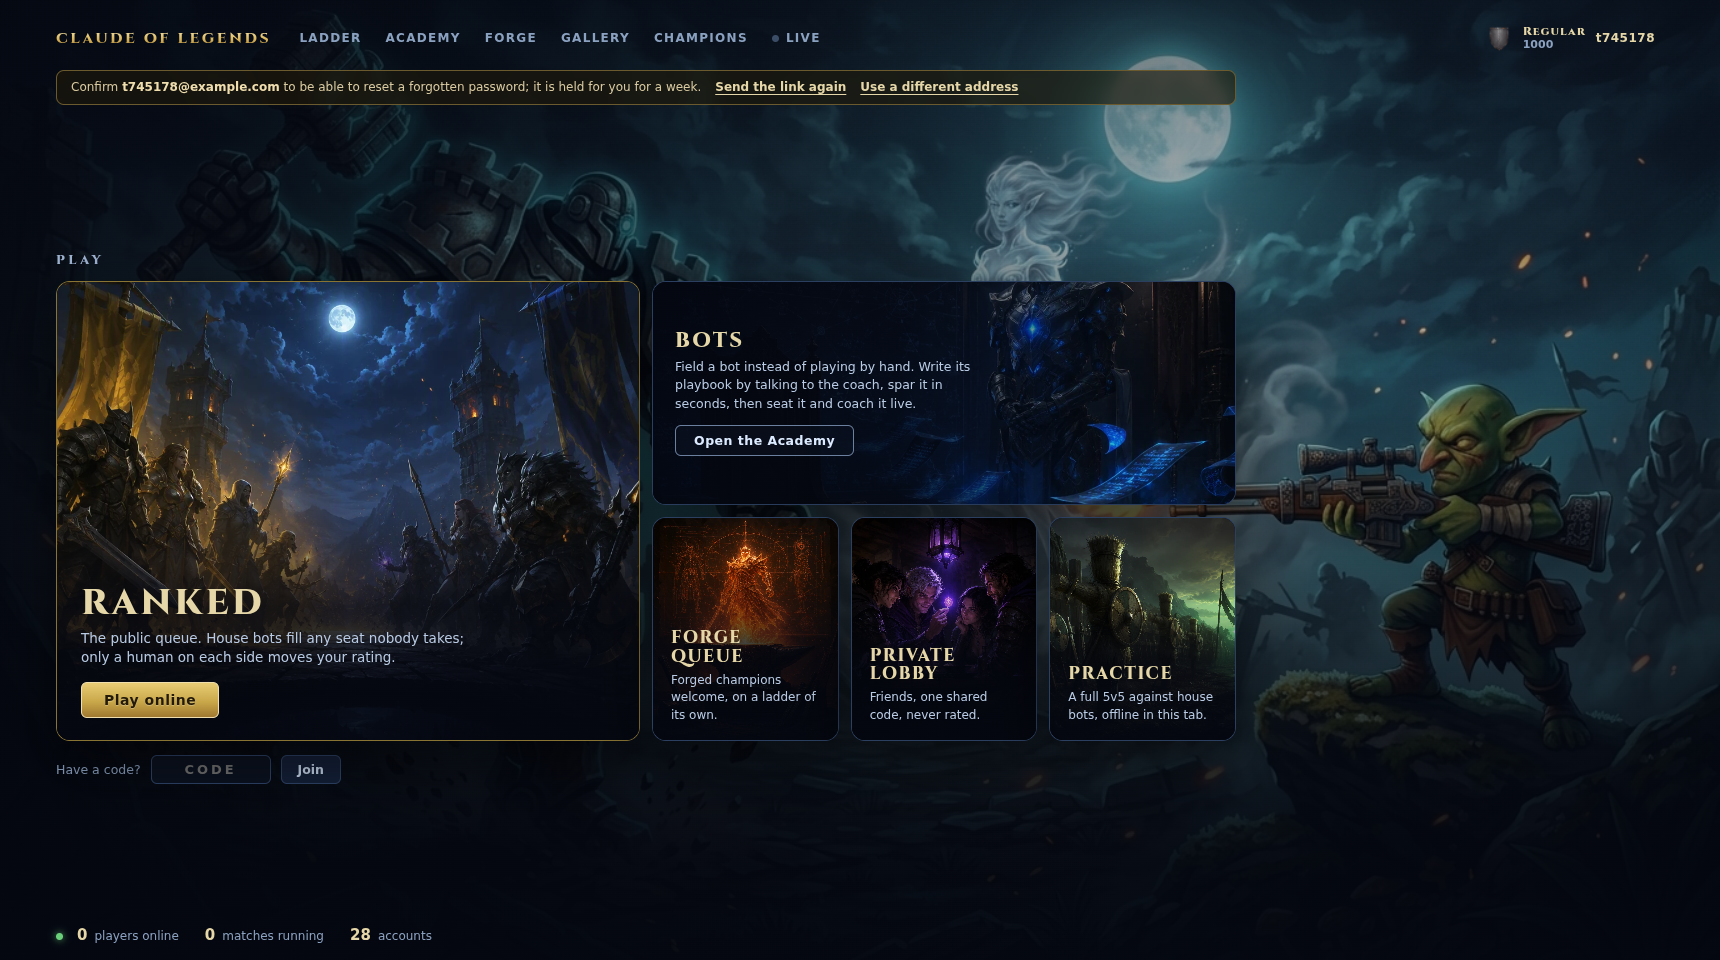
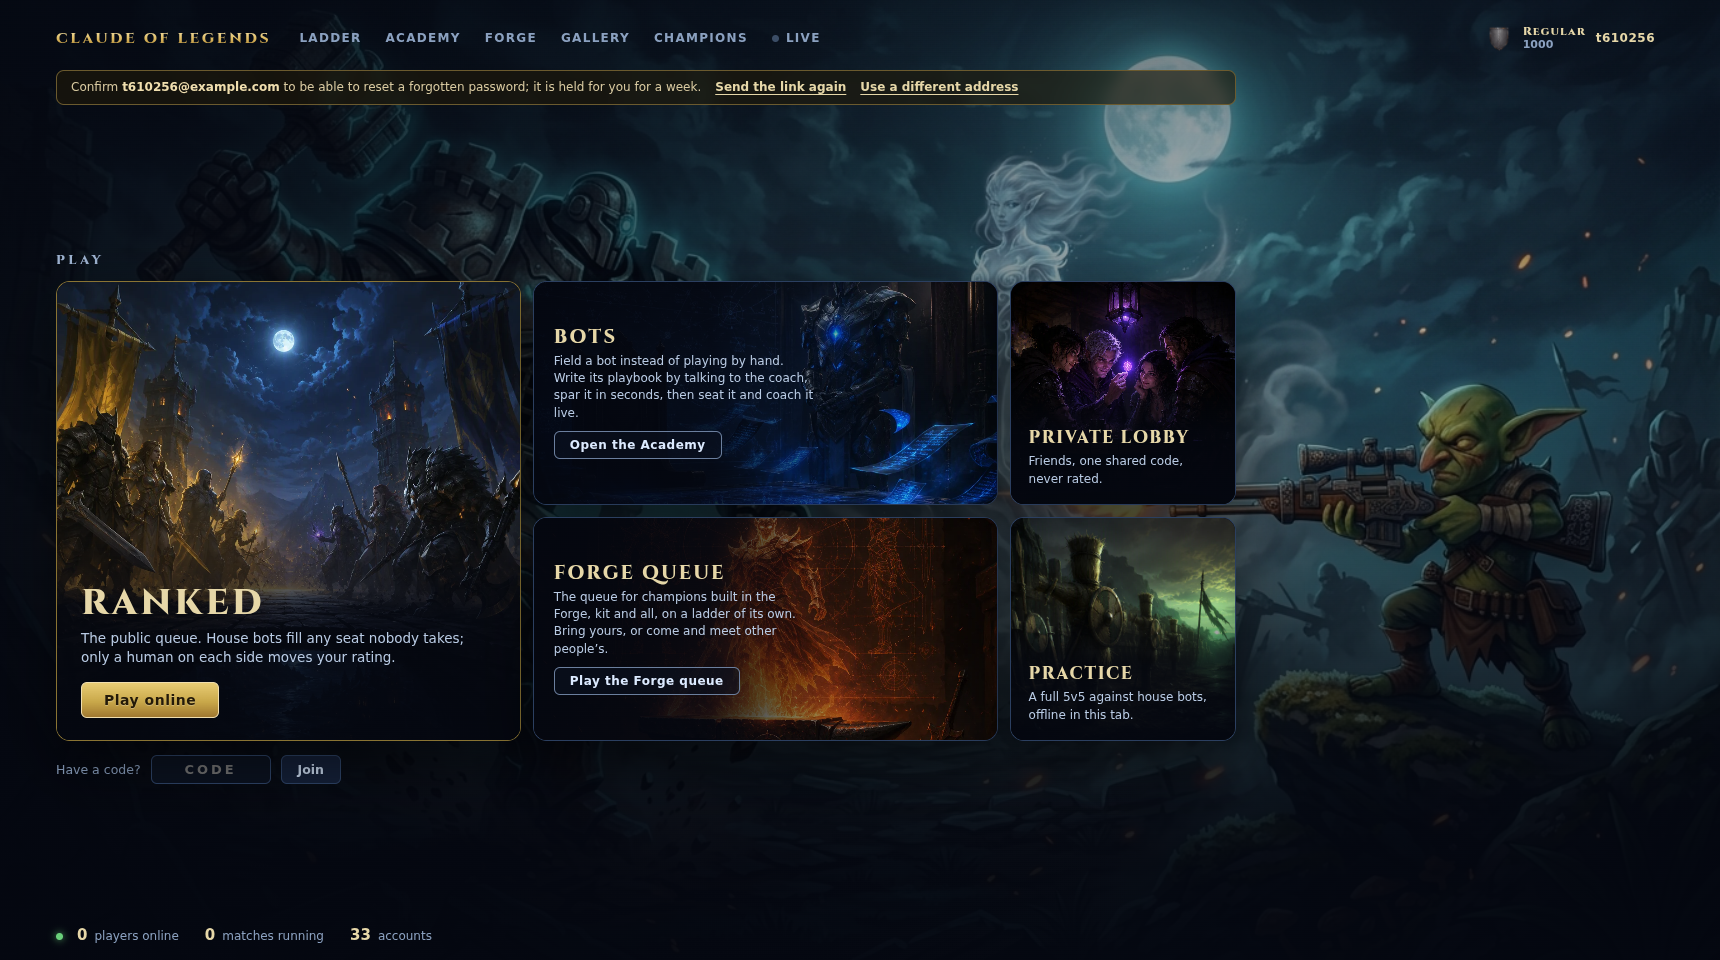
feat(ui): the Forge queue gets the same billing as Bots
The Forge tile was one of the three small squares, which reads as an
afterthought next to the Bots banner. It is the other mode nothing else
in the genre has, so it gets the same shape: the row is now the Ranked
scene tall on the left, the two banners stacked in the middle, and the
Private lobby and Practice squares in a column on the right. The Forge
banner carries its own call to action and says what the queue is for.

Banner is a flag on the tile rather than a rule keyed to one id, so the
scrim, the type sizes and the pill are shared; only the Bots mirror and
the Forge crop stay tile-specific, because those belong to the paintings.

Claude-Session: https://claude.ai/code/session_01VY743MMzWfgfbTnFUAK15o

Changed region(s): [[0.0308, 0.2812, 0.7395, 0.7812], [0.9244, 0.0312, 0.9552, 0.0625], [0.0616, 0.0625, 0.0924, 0.0938]]

diff --git a/src/ui/play_tiles.ts b/src/ui/play_tiles.ts
@@ -8,17 +8,19 @@ import type { PlayTile } from './home_tiles';
 import { tileArtUrl } from './home_tiles';
 import { el } from './menu';
 
-// The bento: the Ranked scene tall on the left, the Bots banner across the
-// top right, the three others square beneath it. Six columns rather than
-// five so the banner and the squares divide the same right-hand half.
+// The bento: the Ranked scene tall on the left, the two banners stacked in
+// the middle, the two smaller modes in a column on the right. Ten columns
+// so four, four and two divide the row cleanly; Bots and the Forge queue
+// get the same billing because they are the two modes nothing else in the
+// genre has, and a mode you have to be shown is a mode worth the space.
 const CSS = `
-.tiles { display: grid; grid-template-columns: repeat(6, 1fr); grid-template-rows: 1fr 1fr;
+.tiles { display: grid; grid-template-columns: repeat(10, 1fr); grid-template-rows: 1fr 1fr;
   gap: 12px; height: clamp(320px, 50vh, 460px); max-width: 1180px; }
-.tile.t-ranked { grid-area: 1 / 1 / 3 / 4; }
-.tile.t-bots { grid-area: 1 / 4 / 2 / 7; }
-.tile.t-forge { grid-area: 2 / 4 / 3 / 5; }
-.tile.t-lobby { grid-area: 2 / 5 / 3 / 6; }
-.tile.t-practice { grid-area: 2 / 6 / 3 / 7; }
+.tile.t-ranked { grid-area: 1 / 1 / 3 / 5; }
+.tile.t-bots { grid-area: 1 / 5 / 2 / 9; }
+.tile.t-forge { grid-area: 2 / 5 / 3 / 9; }
+.tile.t-lobby { grid-area: 1 / 9 / 2 / 11; }
+.tile.t-practice { grid-area: 2 / 9 / 3 / 11; }
 .tile {
   position: relative; overflow: hidden; border-radius: 14px; border: 1px solid #2b3f60;
   padding: 0; text-align: left; cursor: pointer; color: inherit; font: inherit;
@@ -49,21 +51,25 @@ const CSS = `
 .tile.hero .tile-body { padding: 90px 24px 22px; }
 .tile.hero h3 { font-size: clamp(26px, 2.6vw, 36px); letter-spacing: 3px; }
 .tile.hero p { font-size: 13.5px; }
-/* The banner reads across, not up: its words sit in a column against a
-   scrim that fades to the right, where the construct stands. The painting
-   is mirrored to put it there, away from the text; the scene is a room,
-   so nothing in it has a handedness to lose. */
+/* A banner reads across, not up: its words sit in a column against a scrim
+   that fades to the right, where the painting is left clear. */
+.tile.banner .tile-body {
+  top: 0; display: flex; flex-direction: column; justify-content: center;
+  padding: 14px 20px;
+  background: linear-gradient(90deg, rgba(4, 7, 16, 0.96) 0%, rgba(4, 7, 16, 0.88) 38%,
+    rgba(4, 7, 16, 0.1) 78%);
+}
+.tile.banner h3 { font-size: 19px; letter-spacing: 2.2px; }
+.tile.banner p { font-size: 12px; max-width: 34ch; }
+.tile.banner .tile-cta { align-self: flex-start; margin-top: 9px; padding: 6px 15px;
+  font-size: 12px; }
+/* The Bots painting is mirrored so its construct stands on the right, away
+   from the words; the scene is a room, so it has no handedness to lose.
+   The Forge painting is already lit dead center, which is where its scrim
+   thins out, so it needs nothing. */
 .tile.t-bots .tile-art img { transform: scaleX(-1); }
 .tile.t-bots:hover .tile-art img { transform: scaleX(-1) scale(1.05); }
-.tile.t-bots .tile-body {
-  top: 0; display: flex; flex-direction: column; justify-content: center;
-  padding: 16px 22px;
-  background: linear-gradient(90deg, rgba(4, 7, 16, 0.96) 0%, rgba(4, 7, 16, 0.88) 42%,
-    rgba(4, 7, 16, 0.12) 82%);
-}
-.tile.t-bots h3 { font-size: 21px; letter-spacing: 2.2px; }
-.tile.t-bots p { font-size: 12.5px; max-width: 40ch; }
-.tile.t-bots .tile-cta { align-self: flex-start; }
+.tile.t-forge .tile-art img { object-position: 50% 26%; }
 .tile-cta {
   display: inline-block; margin-top: 12px; padding: 7px 18px; border-radius: 6px;
   border: 1px solid #6b7f9e; color: #dceaff; font-weight: 700; font-size: 12.5px;
@@ -89,20 +95,21 @@ const CSS = `
 /* Narrow: the bento unstacks into the hero, the banner, and a row of
    three, which is the same reading order one column at a time. */
 @media (max-width: 900px) {
-  .tiles { grid-template-columns: repeat(3, 1fr); grid-template-rows: auto; height: auto; gap: 10px; }
-  .tile.t-ranked { grid-area: auto / 1 / auto / 4; aspect-ratio: 16 / 9; }
-  /* Two to one, not three: the banner has to hold its title, its line and
+  .tiles { grid-template-columns: repeat(2, 1fr); grid-template-rows: auto; height: auto; gap: 10px; }
+  .tile.t-ranked { grid-area: auto / 1 / auto / 3; aspect-ratio: 16 / 9; }
+  /* Two to one, not three: a banner has to hold its title, its line and
      its button at a phone's width without clipping any of them. */
-  .tile.t-bots { grid-area: auto / 1 / auto / 4; aspect-ratio: 2 / 1; }
-  .tile.t-forge, .tile.t-lobby, .tile.t-practice { grid-area: auto; aspect-ratio: 3 / 4; }
+  .tile.t-bots, .tile.t-forge { grid-area: auto / 1 / auto / 3; aspect-ratio: 2 / 1; }
+  .tile.t-lobby, .tile.t-practice { grid-area: auto; aspect-ratio: 4 / 3; }
   .tile.hero .tile-body { padding: 60px 18px 16px; }
   .tile-body { padding: 40px 12px 10px; }
   .tile h3 { font-size: 14px; letter-spacing: 1.2px; }
   .tile p { font-size: 11px; margin-top: 4px; }
+  .tile.banner p { max-width: 46ch; }
 }
 @media (max-width: 480px) {
-  .tile.t-forge p, .tile.t-lobby p, .tile.t-practice p { display: none; }
-  .tile.t-bots p { font-size: 11px; }
+  .tile.t-lobby p, .tile.t-practice p { display: none; }
+  .tile.banner p { font-size: 11px; }
   .tile.hero h3 { font-size: 24px; }
   .tile.hero p { font-size: 12px; }
 }
@@ -124,7 +131,7 @@ export function buildPlayTiles(
   ensureCss();
   const row = el('div', 'tiles');
   for (const t of tiles) {
-    const tile = el('button', `tile t-${t.id}${t.hero ? ' hero' : ''}`);
+    const tile = el('button', `tile t-${t.id}${t.hero ? ' hero' : ''}${t.banner ? ' banner' : ''}`);
     tile.type = 'button';
     tile.dataset.tile = t.id;
     const art = el('div', 'tile-art');

diff --git a/src/ui/home_tiles.ts b/src/ui/home_tiles.ts
@@ -21,8 +21,12 @@ export interface PlayTile {
   line: string;
   goes: TileGoes;
   // The words on the tile's pill, or none: the tile itself is the button
-  // either way, and the pill only says so louder on the two big ones.
+  // either way, and the pill only says so louder on the big ones.
   cta: string | null;
+  // A banner reads across rather than up: its words sit in a column
+  // against a scrim, with the painting clear beside them. The two modes
+  // nothing else in the genre has, Bots and the Forge, are the banners.
+  banner: boolean;
   // Painted behind the tile: /art/tiles/<art>.webp.
   art: string;
   // The wash under the art, and what shows when the file is missing.
@@ -39,6 +43,7 @@ export const PLAY_TILES: readonly PlayTile[] = [
     cta: 'Play online',
     art: 'ranked',
     accent: '#c9a84a',
+    banner: false,
     hero: true,
   },
   {
@@ -49,16 +54,18 @@ export const PLAY_TILES: readonly PlayTile[] = [
     cta: 'Open the Academy',
     art: 'bots',
     accent: '#5b9dd9',
+    banner: true,
     hero: false,
   },
   {
     id: 'forge',
     title: 'Forge queue',
-    line: 'Forged champions welcome, on a ladder of its own.',
+    line: 'The queue for champions built in the Forge, kit and all, on a ladder of its own. Bring yours, or come and meet other people\u2019s.',
     goes: { to: 'mode', mode: 'forge-queue' },
-    cta: null,
+    cta: 'Play the Forge queue',
     art: 'forge',
     accent: '#d98a5c',
+    banner: true,
     hero: false,
   },
   {
@@ -69,6 +76,7 @@ export const PLAY_TILES: readonly PlayTile[] = [
     cta: null,
     art: 'lobby',
     accent: '#8f7ad9',
+    banner: false,
     hero: false,
   },
   {
@@ -79,6 +87,7 @@ export const PLAY_TILES: readonly PlayTile[] = [
     cta: null,
     art: 'practice',
     accent: '#6fb08a',
+    banner: false,
     hero: false,
   },
 ];

diff --git a/tests/home_tiles.test.ts b/tests/home_tiles.test.ts
@@ -25,9 +25,16 @@ describe('the play tiles', () => {
     expect(bots?.goes).toEqual({ to: 'section', key: 'academy' });
   });
 
-  it('carries a call to action on the two big tiles only', () => {
+  it('gives the two modes nothing else has the banner billing', () => {
+    expect(PLAY_TILES.filter((t) => t.banner).map((t) => t.id)).toEqual(['bots', 'forge']);
+    // Hero and banner are the big shapes and never the same tile.
+    expect(PLAY_TILES.every((t) => !(t.hero && t.banner))).toBe(true);
+  });
+
+  it('carries a call to action on the three big tiles only', () => {
     const withCta = PLAY_TILES.filter((t) => t.cta !== null).map((t) => t.id);
-    expect(withCta).toEqual(['ranked', 'bots']);
+    expect(withCta).toEqual(['ranked', 'bots', 'forge']);
+    expect(PLAY_TILES.every((t) => (t.cta !== null) === (t.hero || t.banner))).toBe(true);
     expect(PLAY_TILES.find((t) => t.id === 'ranked')?.cta).toBe('Play online');
   });
 
